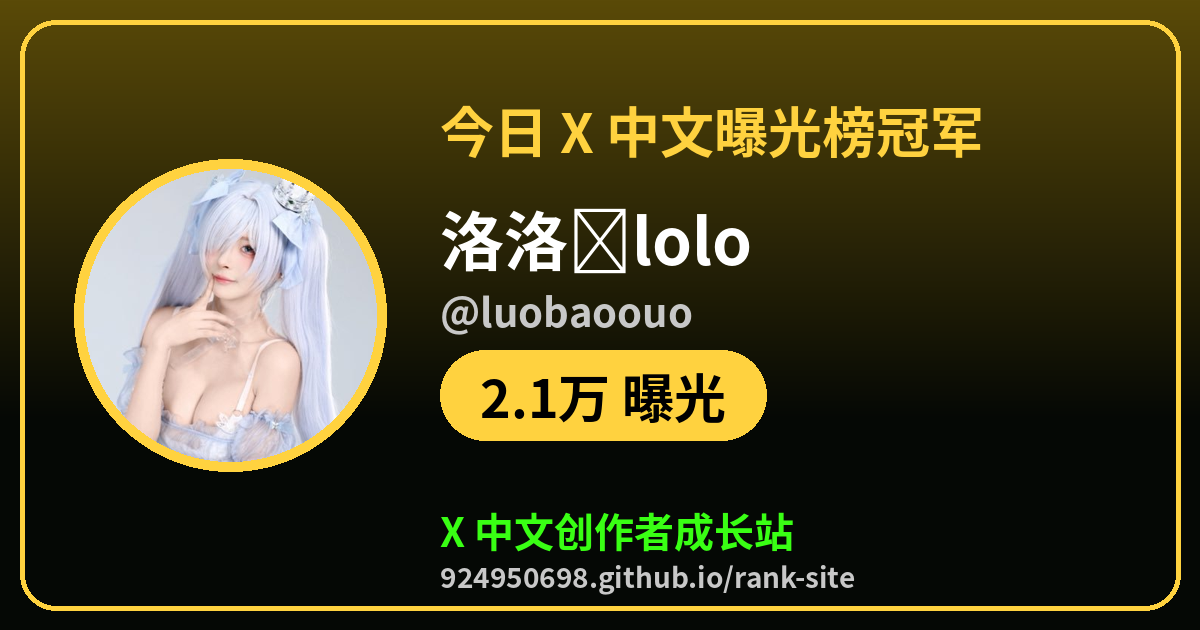
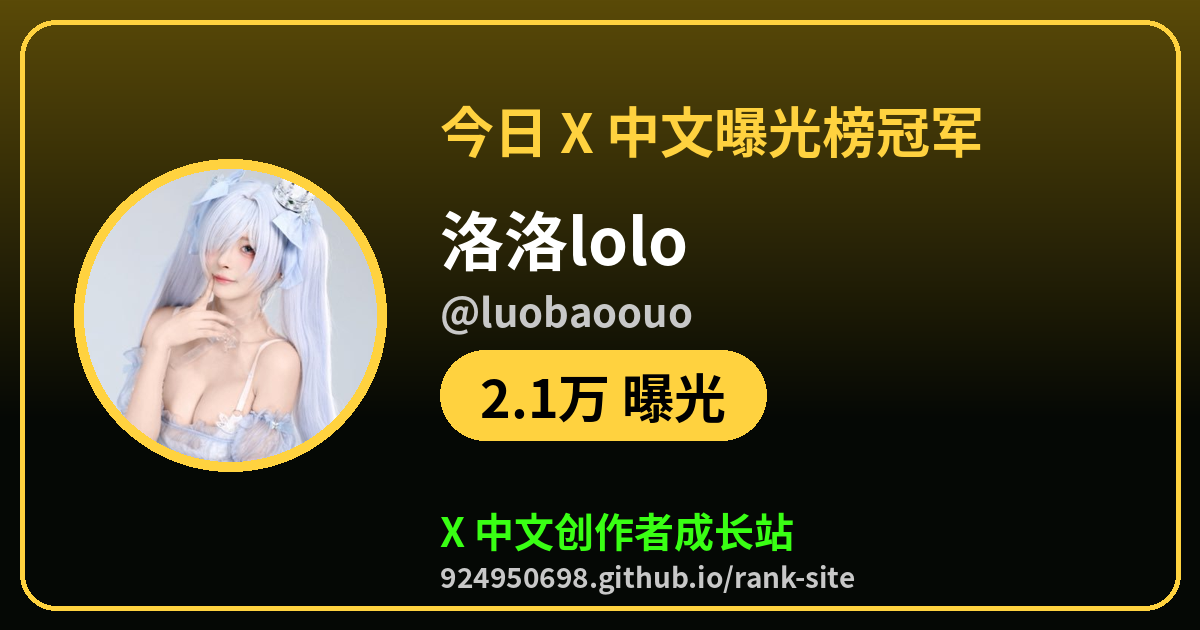
data: 2026-10-16 19:35 CST

Changed region(s): [[0.4625, 0.3317, 0.6475, 0.4524]]

diff --git a/index.html b/index.html
@@ -15,7 +15,7 @@
 <meta name="twitter:image" content="https://924950698.github.io/rank-site/og.png">
 <meta name="theme-color" content="#000000">
 <link rel="preload" href="data.json" as="fetch" crossorigin>
-<link rel="stylesheet" href="style.css?v=20261016193404">
+<link rel="stylesheet" href="style.css?v=20261016193514">
 </head>
 <body>
 <header>
@@ -70,9 +70,9 @@
 </footer>
 
 
-<script>window.ASSET_V="20261016193404"</script><script src="config.js?v=20261016193404"></script>
-<script src="nav.js?v=20261016193404" defer></script>
-<script src="app.js?v=20261016193404" defer></script>
+<script>window.ASSET_V="20261016193514"</script><script src="config.js?v=20261016193514"></script>
+<script src="nav.js?v=20261016193514" defer></script>
+<script src="app.js?v=20261016193514" defer></script>
 <div id="dmodal" class="dmodal" style="display:none" onclick="if(event.target===this)this.style.display='none'"><div class="dbox"><div class="dh"><b>数据说明</b><button type="button" onclick="document.getElementById('dmodal').style.display='none'">✕</button></div><ul>
 <li>只统计中文 X 帖子，每小时更新一次</li>
 <li>每天早上 8 点（北京时间）切日，榜单从零开始算</li>

diff --git a/app.js b/app.js
@@ -59,7 +59,7 @@ function champ() {
     if (!p) return null; stat = tab === "comments" ? `${num(p.metrics?.replies)} 评论` : `${num(p.metrics?.views)} 曝光`; }
   if (!p?.author?.username) return null; return { p, a: p.author, stat, board: CH_NAME[tab] || "" };
 }
-function champUrl(u) { return location.origin + location.pathname + "?champ=" + encodeURIComponent(u) + "&board=" + tab + "#rank"; }
+function champUrl(u) { return location.origin + location.pathname.replace(/[^/]*$/, "") + "champ/" + tab + ".html"; }
 function champHtml() {
   const c = champ(); if (!c) return ""; const { a, stat, board } = c;
   const xt = `恭喜 @${a.username} 拿下今日 X 中文${board}冠军 🏆 ${stat}\n来看看今天谁在爆 👉 ` + champUrl(a.username);

diff --git a/scripts/build_champ_pages.py b/scripts/build_champ_pages.py
@@ -29,6 +29,8 @@ def avatar(url, size):
         im = Image.open(io.BytesIO(urllib.request.urlopen(req, timeout=10).read())).convert("RGB").resize((size, size))
     except Exception: return None
     mk = Image.new("L", (size, size), 0); ImageDraw.Draw(mk).ellipse((0, 0, size, size), fill=255); im.putalpha(mk); return im
+def clean(t):  # 字体里没有的 emoji 去掉，避免画出方框
+    return "".join(ch for ch in t if not (0x1F000 <= ord(ch) <= 0x1FFFF or 0x2600 <= ord(ch) <= 0x27BF or ord(ch) in (0xFE0F, 0x200D))).strip()
 def F(s): return ImageFont.truetype(FONT, s)
 def draw(a, stat, board, out):
     W, H = 1200, 630; im = Image.new("RGB", (W, H), "#050805"); d = ImageDraw.Draw(im)
@@ -44,7 +46,7 @@ def draw(a, stat, board, out):
     d.ellipse((cx - S // 2 - 6, cy - S // 2 - 6, cx + S // 2 + 6, cy + S // 2 + 6), outline="#ffd23f", width=10)
     x = 440
     d.text((x, 90), f"今日 X 中文{board}冠军", font=F(54), fill="#ffd23f")
-    nm = a.get("name") or ""; f = F(64)
+    nm = clean(a.get("name") or "") or ("@" + (a.get("username") or "")); f = F(64)
     while d.textlength(nm, font=f) > W - x - 60 and len(nm) > 1: nm = nm[:-1]
     d.text((x, 190), nm, font=f, fill="#ffffff")
     d.text((x, 280), "@" + (a.get("username") or ""), font=F(40), fill="#c8c8c8")
